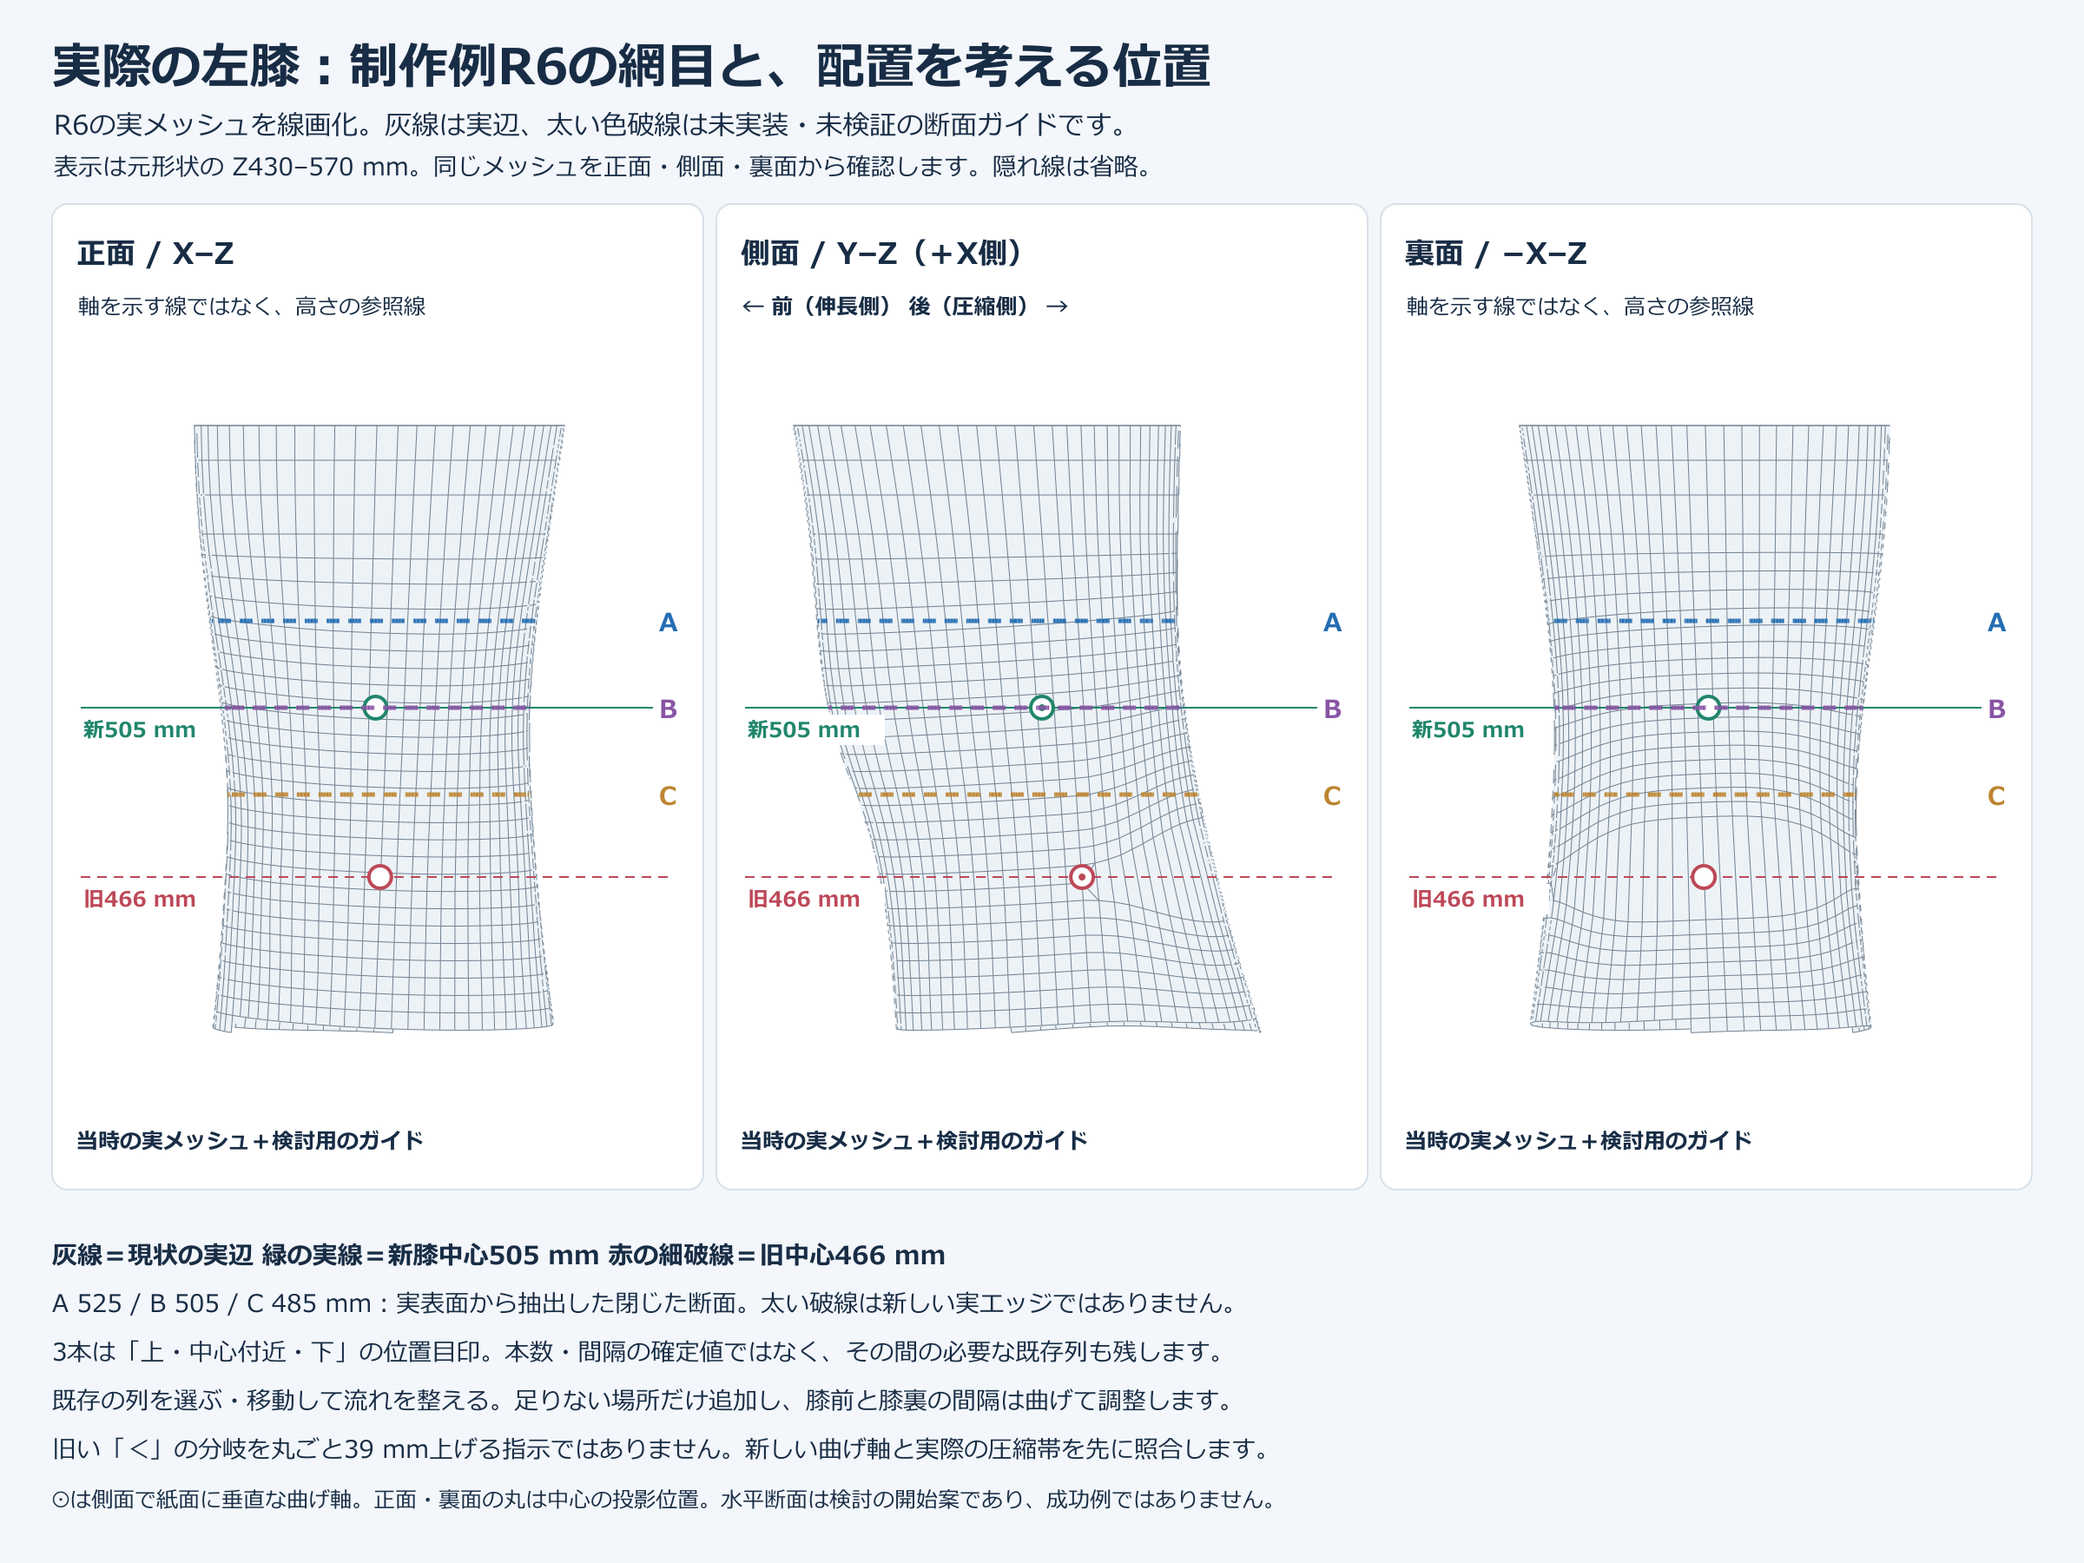
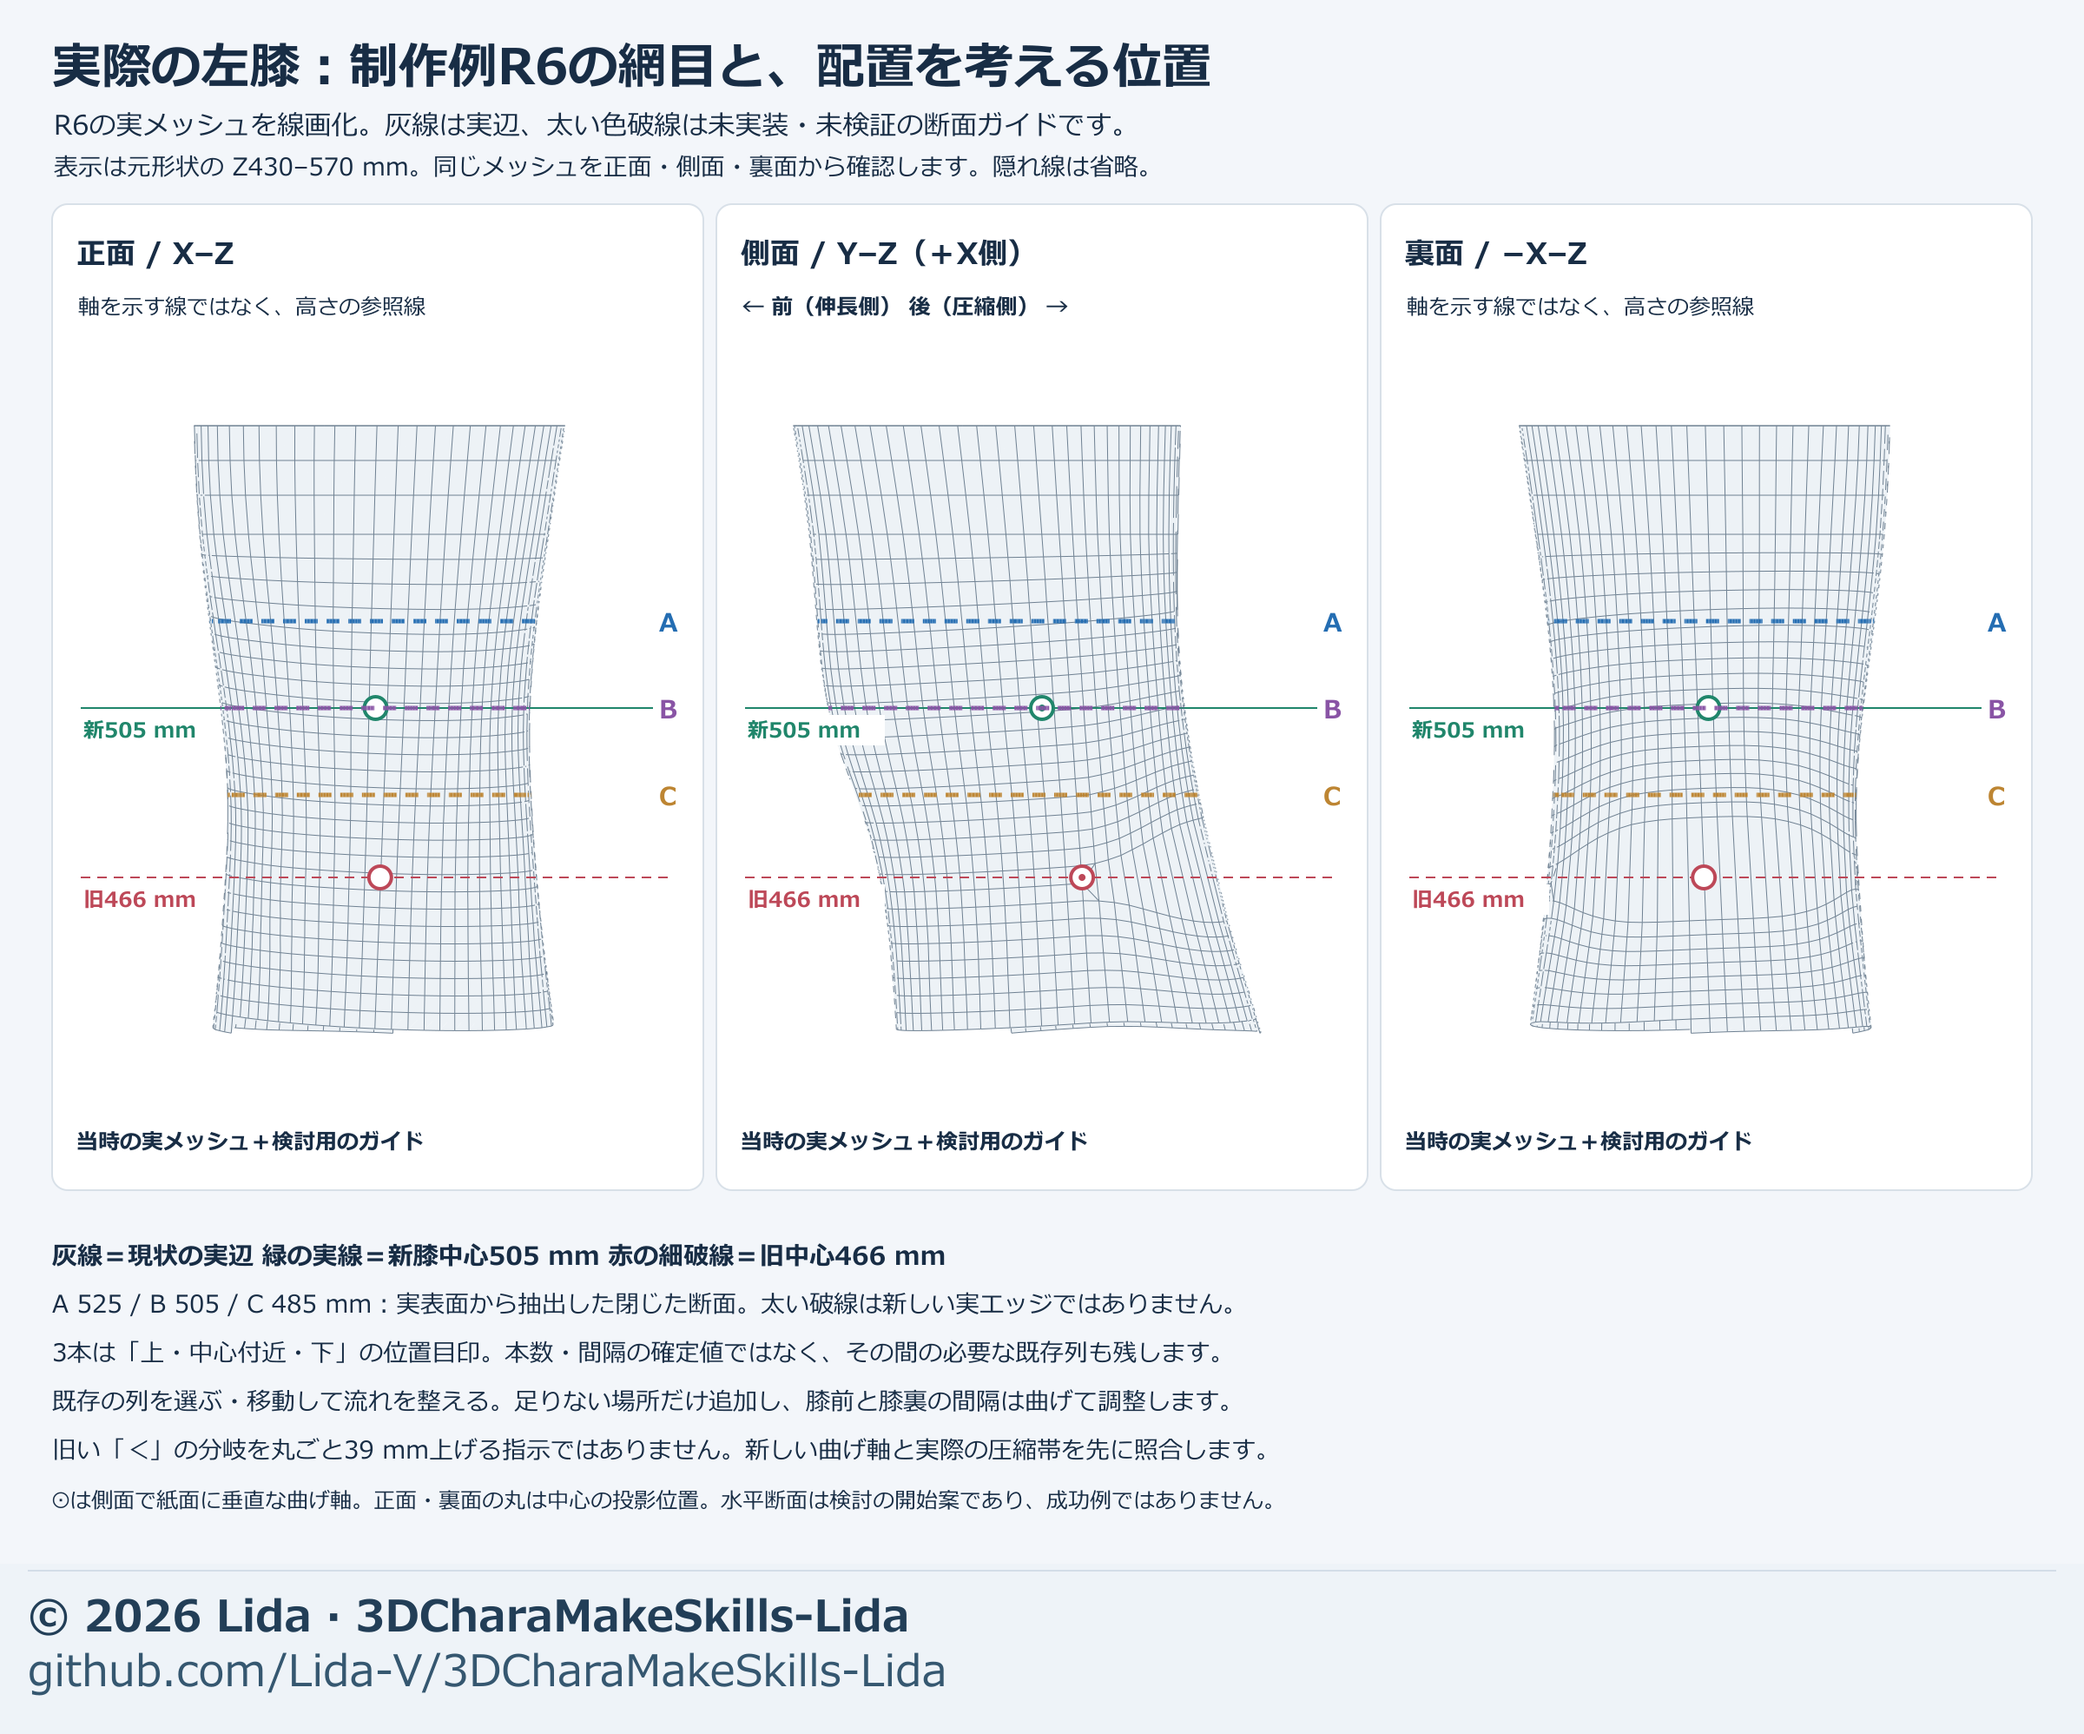
docs: add Lida name and source footer to all sixteen diagram sets

diff --git a/skills/lida-avatar-workflow/assets/README.md b/skills/lida-avatar-workflow/assets/README.md
@@ -24,3 +24,9 @@
 模式図は制作記録の方法を整理したもので、実モデルの修正前後・採用済み成果を新たに示すものではありません。実エッジ、破線の案、模式図を取り違えない。[膝の図の読み方](../references/knee-edge-placement.md)。
 
 図内の形・寸法・列数・版記号は共通の設定値ではありません。色と番号、実線/破線、向きの説明を使い、対象部位の実画像と対応させてください。PNGの表示も目視確認してから更新します。
+
+## 資料単体で分かる出典表示
+
+全16組のSVGとPNGは、説明の下へ余白を足し、「© 2026 Lida · 3DCharaMakeSkills-Lida」と `github.com/Lida-V/3DCharaMakeSkills-Lida` を表示しています。本文・線・矢印を覆う透かしではなく、画像だけで共有された時の来歴表示です。
+
+SVGの元の図形・文字は保持し、PNGはそのSVGから描画しています。PNGとSVGの両方で出典帯が読めることを確認して更新してください。表示の追加で利用条件を変更してはいません。
